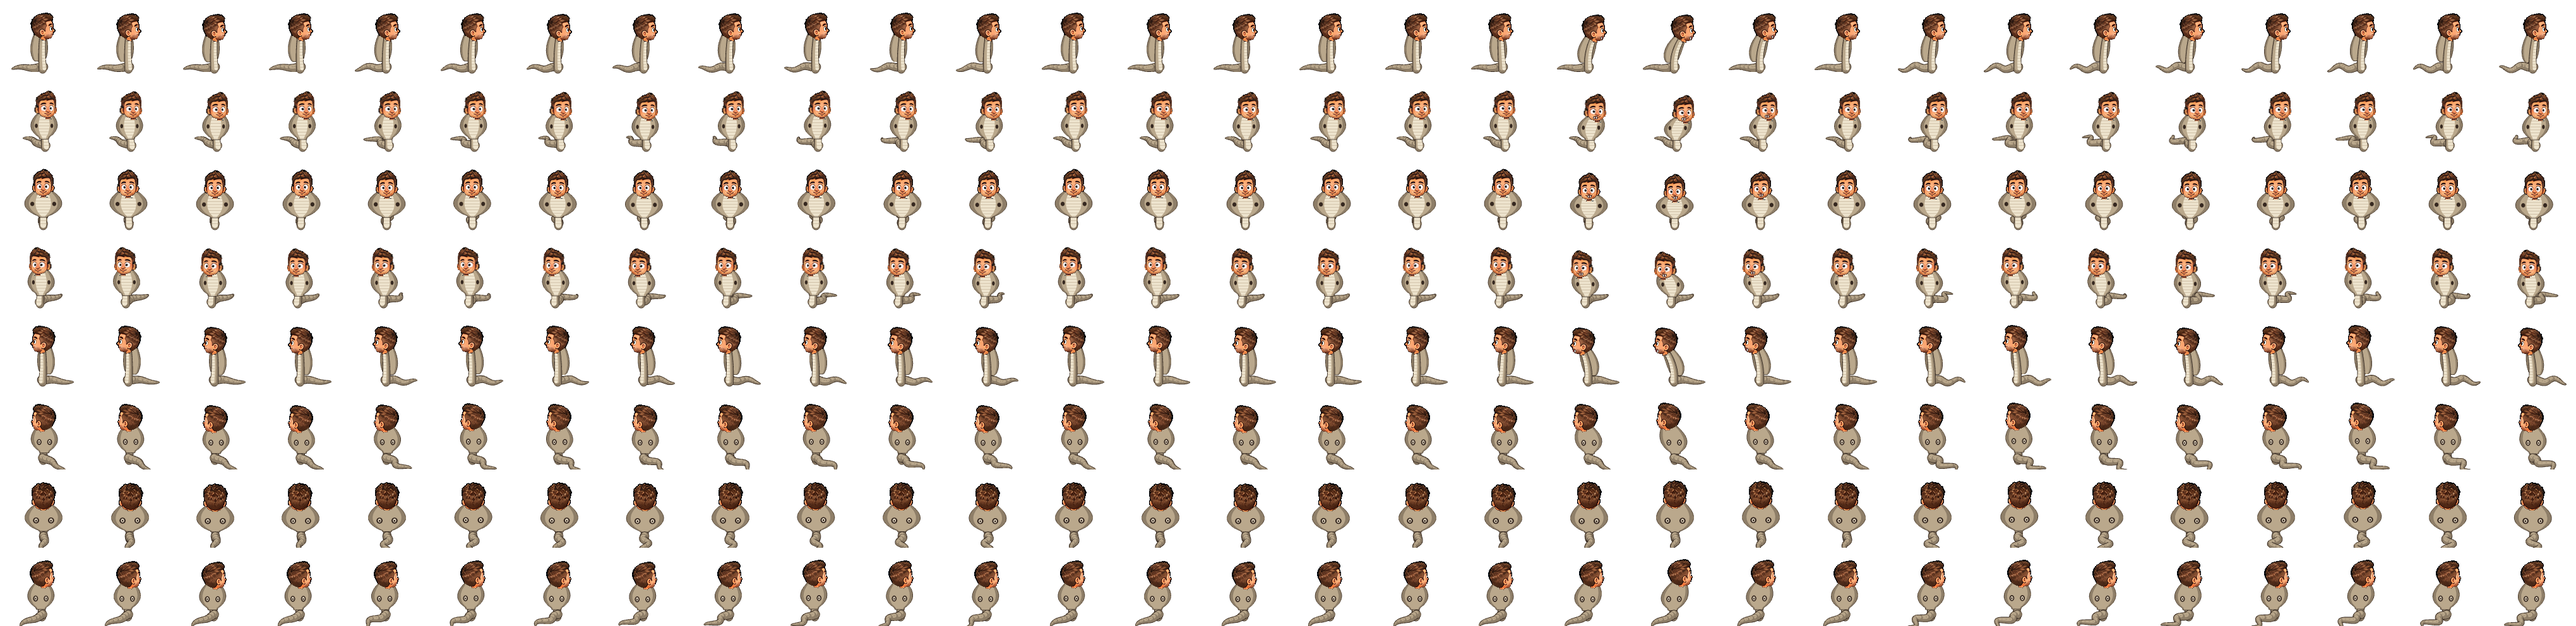
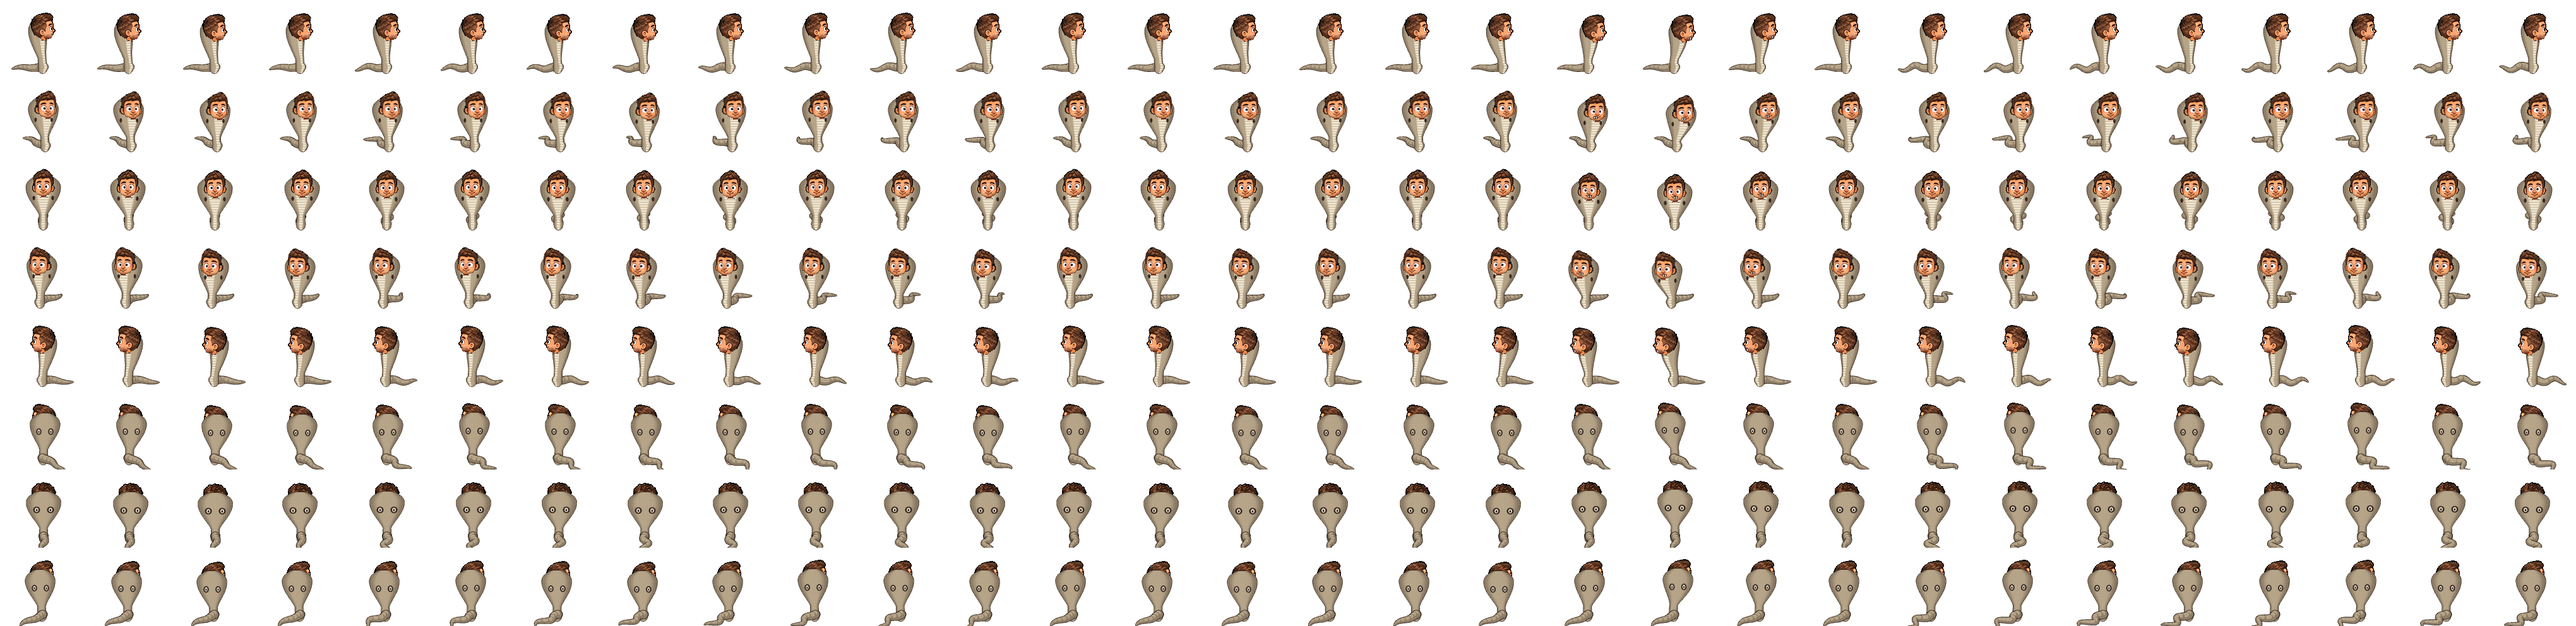
Cobra James: tall spade hood that rises around the head, seamless gradient/scale shading into the banded belly

diff --git a/phaser-tag-client/tools/make_cobra_skin.py b/phaser-tag-client/tools/make_cobra_skin.py
@@ -238,7 +238,7 @@ def render(base, d, col, mouths):
         u = max(0.0, min(1.0, z / zt))
         return 6.4 - 1.4 * u
 
-    cv = Canvas()
+    cv = None
     body = body_path(p, anim, k, n)
     neck_pts = []
     for i in range(80):
@@ -251,78 +251,8 @@ def render(base, d, col, mouths):
 
     behind = fy > 0.3 or abs(fy) <= 0.3     # body trails away from viewer (or sideways)
 
-    # hood geometry
-    z0, z1 = zt - 40, zt + 8
-    edgeL, edgeR, centre = [], [], []
-    Wmax = 29.0
-    for i in range(41):
-        u = i / 40
-        z = z0 + (z1 - z0) * u
-        w = Wmax * math.sin(math.pi * min(1, u ** 0.85)) ** 0.75
-        w = max(w, neck_r(z) + 0.5)
-        f, s = neck_fs(z)
-        f -= 1.5 if abs(lx) > 0.3 else 4.5
-        cx, cy, _ = p(f, s, z)
-        hw = max(w * abs(lx), neck_r(z) + 1.0 + 6.5 * (1 - abs(lx)) * math.sin(math.pi * min(1, u ** 0.85)) ** 0.75)
-        # lateral vector on screen (x only, y compression)
-        sx = 1 if lx >= 0 else -1
-        dy = w * p.ly * PROJ * sx if abs(lx) > 0.3 else 0
-        edgeL.append((cx - hw, cy - dy * 0))
-        edgeR.append((cx + hw, cy + dy * 0))
-        centre.append((cx, cy, hw, u))
-    hood_poly = edgeL + edgeR[::-1]
-
-    def draw_hood():
-        outer = poly(hood_poly)
-        cv.paint(dilate(outer, 3), LINE)
-        front = fy > 0.3
-        back = fy < -0.3
-        cv.paint(outer, SHADE)
-        inner = poly([(cx - hw * 0.78, cy) for cx, cy, hw, u in centre] +
-                     [(cx + hw * 0.78, cy) for cx, cy, hw, u in centre[::-1]]) & outer
-        if front:
-            cv.paint(inner, COIL)
-            bel = poly([(cx - hw * 0.42, cy) for cx, cy, hw, u in centre] +
-                       [(cx + hw * 0.42, cy) for cx, cy, hw, u in centre[::-1]]) & outer
-            cv.paint(bel, BELLY)
-            # bands
-            bm = new_mask(); bd = ImageDraw.Draw(bm)
-            for cx, cy, hw, u in centre[1::4]:
-                bd.line([((cx - hw * 0.42) * SS, cy * SS), ((cx + hw * 0.42) * SS, cy * SS)], fill=255, width=3)
-            cv.paint(arr(bm) & bel, BAND)
-            # dark throat spots like the reference
-            for cx, cy, hw, u in centre:
-                if abs(u - 0.42) < 0.013:
-                    for kk in (-1, 1):
-                        cv.paint(ellipse(cx + kk * hw * 0.6, cy, max(1.2, hw * 0.1), 3.2) & inner, SPOT)
-        else:
-            cv.paint(inner, COIL)
-            if back:
-                for cx, cy, hw, u in centre:
-                    if abs(u - 0.36) < 0.013:
-                        for kk in (-1, 1):
-                            ex = cx + kk * hw * 0.42
-                            rx = max(1.6, 3.6 * abs(lx))
-                            cv.paint(ellipse(ex, cy, rx + 1.1, 4.6) & outer, SPOT)
-                            cv.paint(ellipse(ex, cy, rx * 0.62 + 0.3, 3.0) & outer, RIM)
-                            cv.paint(ellipse(ex, cy + 0.3, rx * 0.3, 1.5) & outer, SPOT)
-
-    def draw_neck():
-        tube(cv, neck_pts, dots=False)
-        if fy > -0.3:
-            # pale banded belly on the front of the neck
-            off = 0.45 * fx
-            wsc = 0.42 + 0.28 * max(0.0, fy)
-            bp = [(x + off * r, y, r * wsc) for x, y, r in neck_pts[3:]]
-            fill = circles(neck_pts, grow=-0.85)
-            bel = circles(bp) & fill
-            cv.paint(bel, BELLY)
-            bm = new_mask(); bd = ImageDraw.Draw(bm)
-            for x, y, r in neck_pts[6::7]:
-                bd.line([((x - r) * SS, y * SS), ((x + r) * SS, y * SS)], fill=255, width=3)
-            cv.paint(arr(bm) & bel, BAND)
-
     def draw_body():
+        nonlocal cv
         pts = [(x, y, r) for x, y, r, _ in body]
         # chunk for self-overlap (painter order with seamless joins)
         CH = 20
@@ -348,29 +278,119 @@ def render(base, d, col, mouths):
                 dd.ellipse([ox * SS - rr, oy * SS - rr, ox * SS + rr, oy * SS + rr], fill=255)
             cv.paint(arr(dm) & light, SCALE)
 
-    profile = abs(lx) <= 0.3
-    if behind:
-        draw_body()
-    if profile:
-        draw_hood(); draw_neck()
-    else:
-        draw_neck(); draw_hood()
-    if not behind:
-        draw_body()
-
-    out = cv.down()
-    # paste James's real head
+    # head placement (the hood is attached to the head, so it follows the dart)
     nf, ns = neck_fs(zt)
     tx, ty, _ = p(nf, ns, zt)
-    bx, by, _ = p(neck_fs(GY - (NECK_Y + PADY - 7))[0] * 0, 0, GY - (NECK_Y + PADY - 7))
+    z_rest = GY - (NECK_Y + PADY - 7)
+    bx, by, _ = p(0, 0, z_rest)
     dx = int(round(tx - bx)); dy = int(round(ty - by))
+    x0, y0 = PADX + dx, PADY + dy
+    htop = ys.min() + y0
+    hcx_now = hcx + dx
+
+    back = fy < -0.3
+    front = fy > 0.3
+    al = abs(lx)
+
+    # hood: tall rounded spade, in screen space around the head
+    top_y = htop + (15 if back else 11)    # about temple / ear height
+    chin_y = NECK_Y + y0
+    bot_y = chin_y + 30
+    W = 27.0 * al + 14.0 * (1 - al)        # broad face-on, flared profile edge-on
+    off = -fx * (8.0 * (1 - al) + 2.5 * al)  # sits behind the head
+
+    def neck_x_at(y):
+        best = min(neck_pts[1:], key=lambda q: abs(q[1] - y))
+        return best[0], best[2]
+
+    rows = []
+    for i in range(61):
+        v = i / 60
+        y = top_y + (bot_y - top_y) * v
+        nx, nr = neck_x_at(y)
+        if v < 0.3:
+            w = W * math.sin(math.pi / 2 * min(1.0, (v + 0.02) / 0.3)) ** 0.55
+            c = hcx_now + off
+        else:
+            q = (v - 0.3) / 0.7
+            w = nr + (W - nr) * math.cos(math.pi / 2 * q) ** 1.25
+            c = (hcx_now + off) * (1 - q ** 1.5) + nx * q ** 1.5
+        rows.append((c, y, max(w, 1.0), v))
+    hood_poly = [(c - w, y) for c, y, w, v in rows] + [(c + w, y) for c, y, w, v in rows[::-1]]
+
+    def draw_union(target):
+        U = poly(hood_poly) | circles(neck_pts)
+        target.paint(dilate(U, 3), LINE)
+        H4, W4 = U.shape
+        yy, xx = np.mgrid[0:H4, 0:W4]
+        # per-row extent of the union -> normalised across-body position t
+        anyrow = U.any(1)
+        left = np.where(anyrow, U.argmax(1), 0)
+        right = np.where(anyrow, W4 - 1 - U[:, ::-1].argmax(1), 1)
+        cx = (left + right) / 2.0
+        hw = np.maximum((right - left) / 2.0, 1.0)
+        t = (xx - cx[:, None]) / hw[:, None]
+        sm = lambda e0, e1, x: np.clip((x - e0) / (e1 - e0), 0, 1) ** 2 * (3 - 2 * np.clip((x - e0) / (e1 - e0), 0, 1))
+        shade = sm(0.45, 1.0, np.abs(t)) * 0.85 + sm(-0.2, 1.0, -t * 0.7 * (1 if True else 0)) * 0.0
+        # light from upper-left: right side a touch darker
+        shade = np.clip(shade + 0.18 * sm(0.0, 1.0, t), 0, 1)
+        col = np.array(COIL, np.float32) * (1 - shade[..., None]) + np.array(SHADE, np.float32) * shade[..., None]
+        # scale texture (small diamonds), stronger on the hood rim
+        cell = 3 * SS
+        dia = (((xx + yy) // cell + (xx - yy) // cell) % 2 == 0)
+        rim = sm(0.55, 0.95, np.abs(t))
+        k = (0.05 + 0.17 * rim) * dia
+        col = col * (1 - k[..., None]) + np.array(LINE, np.float32) * k[..., None]
+        if not back:
+            c0 = 0.5 * fx if not front else 0.42 * fx
+            bw = 0.36 + 0.14 * max(0.0, fy)
+            dd = np.abs(t - c0) / bw
+            bel = 1 - sm(0.65, 1.0, dd)
+            band = ((yy // SS) % 4 == 0) & (yy > (top_y + 6) * SS)
+            bcol = np.where(band[..., None], np.array(BAND, np.float32), np.array(BELLY, np.float32))
+            col = col * (1 - bel[..., None]) + bcol * bel[..., None]
+        m = U.astype(np.float32)
+        target.rgb = target.rgb * (1 - m[..., None]) + col * m[..., None]
+        target.a = np.maximum(target.a, m)
+        # markings
+        def at(v):
+            return min(rows, key=lambda r: abs(r[3] - v))
+        if back:
+            c, y, w, v = at(0.5)
+            for kk in (-1, 1):
+                ex = c + kk * w * 0.45
+                rx = max(1.8, 4.2 * al)
+                target.paint(ellipse(ex, y, rx + 1.2, 5.2) & U, SPOT)
+                target.paint(ellipse(ex, y, rx * 0.62 + 0.3, 3.4) & U, RIM)
+                target.paint(ellipse(ex, y + 0.4, rx * 0.3, 1.7) & U, SPOT)
+        elif front:
+            c, y, w, v = at(0.56)
+            for kk in (-1, 1):
+                target.paint(ellipse(c + kk * w * 0.66, y, max(1.4, w * 0.09), 3.4) & U, SPOT)
+
+    lower = Canvas()
+    upper = Canvas()
+    if back:
+        draw_union(upper)
+    if behind:
+        cv = lower
+        draw_body()
+    if not back:
+        draw_union(lower)
+    if not behind:
+        cv = upper
+        draw_body()
+    out = lower.down()
     hd = head.astype(np.float32)
     H = np.zeros((OH, OW, 4), np.float32)
-    x0, y0 = PADX + dx, PADY + dy
     H[y0:y0 + BH, x0:x0 + BW] = hd
     ha = H[..., 3:4] / 255
     out = np.concatenate([out[..., :3] * (1 - ha) + H[..., :3] * ha,
                           np.maximum(out[..., 3:4], H[..., 3:4])], -1)
+    up = upper.down()
+    ua = up[..., 3:4] / 255
+    out = np.concatenate([out[..., :3] * (1 - ua) + up[..., :3] * ua,
+                          np.maximum(out[..., 3:4], up[..., 3:4])], -1)
     if fangs and mouths.get(d):
         mx, my = mouths[d]
         mx += x0; my += y0

diff --git a/phaser-tag-client/tools/check_cobra_consistency.py b/phaser-tag-client/tools/check_cobra_consistency.py
@@ -1,5 +1,6 @@
 """Cobra James consistency: sheet fits one texture, James's real base head is
-present in every frame (face kept), and the raised neck is the same smooth
+present in every frame (face kept; from behind the hood hides the
+back of the head, so only the visible hair is matched there), and the raised neck is the same smooth
 width in every frame of a direction (no lumps)."""
 import json
 import sys
@@ -35,10 +36,11 @@ for r, d in enumerate(DIRS):
                     continue
                 eq = (np.abs(f[ys, xs, :3] - head[hy, hx, :3]).max(1) <= 2).mean()
                 best = max(best, eq)
-        if best < 0.95:
+        need = 0.2 if d in ("N", "NE", "NW") else 0.95
+        if best < need:
             print(f"{d} col {c}: base head match {best:.3f}"); bad += 1
         # neck width a little above the coils: the opaque run nearest the centre
-        y = GY - 24
+        y = GY - 24  # lower hood taper, above the coils
         row = f[y, :, 3] > 128
         runs, x = [], 0
         while x < fw:
@@ -53,7 +55,7 @@ for r, d in enumerate(DIRS):
     w = np.array(widths)
     med = np.median(w)
     for c, wv in enumerate(w):
-        if abs(wv - med) > (7 if 16 <= c < 22 else 3):  # tag dart drops the hood
+        if abs(wv - med) > (9 if 16 <= c < 22 else 5):  # sway bob / tag dart move the hood taper
             print(f"{d} col {c}: neck width {wv} vs median {med}"); bad += 1
 print("cobra consistency: problems =", bad)
 raise SystemExit(1 if bad else 0)
